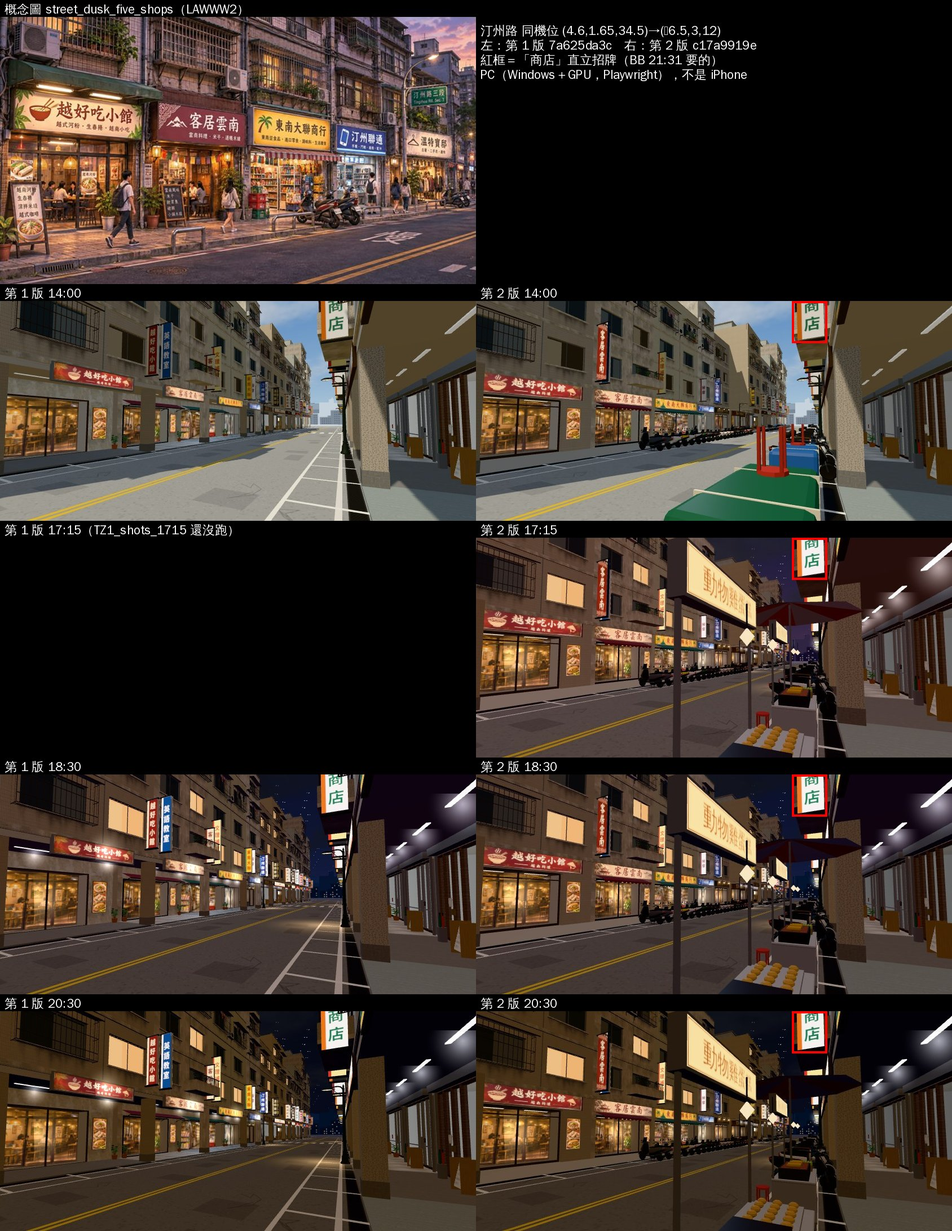
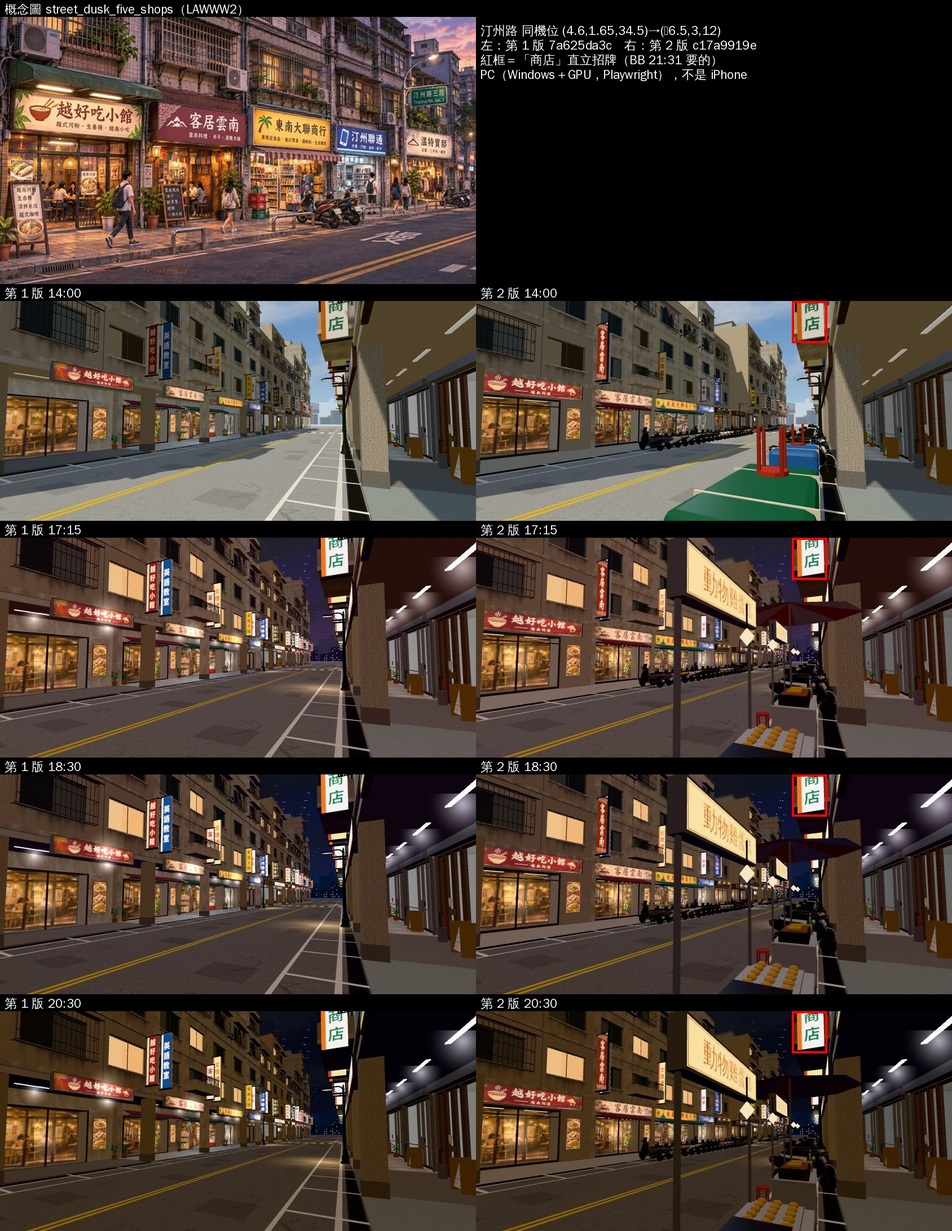
CC（帳號 A）：汀州路第 2 版走路／幀率／17:15 並排、USCLS_r3 FINAL PASS
Claude-Session: https://claude.ai/code/session_01TdESzxBpdGoPhdkPD2ENce

Changed region(s): [[0.0, 0.4048, 0.5237, 0.6227]]

diff --git a/docs/story_planning/CC/CC_01_測試執行紀錄.md b/docs/story_planning/CC/CC_01_測試執行紀錄.md
@@ -1323,3 +1323,9 @@
   5. 17:15 起概念圖機位正前方多了一個大攤子燈箱（「動物燒…」）、陽傘、雞蛋糕：水源市場門口的夜市攤，擋掉概念圖構圖的右半。
   6. 洗樂洗衣坊、印得好正面：店名字樣上下各一次（燈箱＋下面一條），可能是設計；請 BB 對參考圖。
   7. 11/1 17:15 天已經暗了（概念圖是黃昏、有夕陽色）。
+
+## 21:4x 汀州路第 2 版收尾＋USCLS_r3（PC）
+- TZ2_walk（c17a9919e）ALL PASS：路中間 z −38～38、兩側（含沒有騎樓的五間前面的人行道）每 10 m 都走得到、沒有卡住的點；試走出地圖四個方向都停在地圖裡；巷 A 進得去出得來；walkFallbacks 0。100 台機車沒有擋路。
+- 幀率：TZ2_fps 58.1、TZ1_fps 58.1（中畫質、路中間 18:30、8 秒；PC 被螢幕更新率卡在 60，兩版都頂到，比不出差別；NPC 0）。
+- TZ1_shots_1715：第 1 版 17:15 補進 shots/tz2_concept_v1_vs_v2.jpg。
+- USCLS_r3（8f1374ba08877e0aa46b4f3d0489a6668efe892d）FINAL ALL PASS：選 b「（只講臺灣那一個案子）」，「…教授經過你旁邊，說了一句：Good choice.）」出來時教授離玩家 1.23 m（前三句 4.57 m）；r2（aa691df33）約 3 m。演完回 us_campus、沒有 JS 例外。
